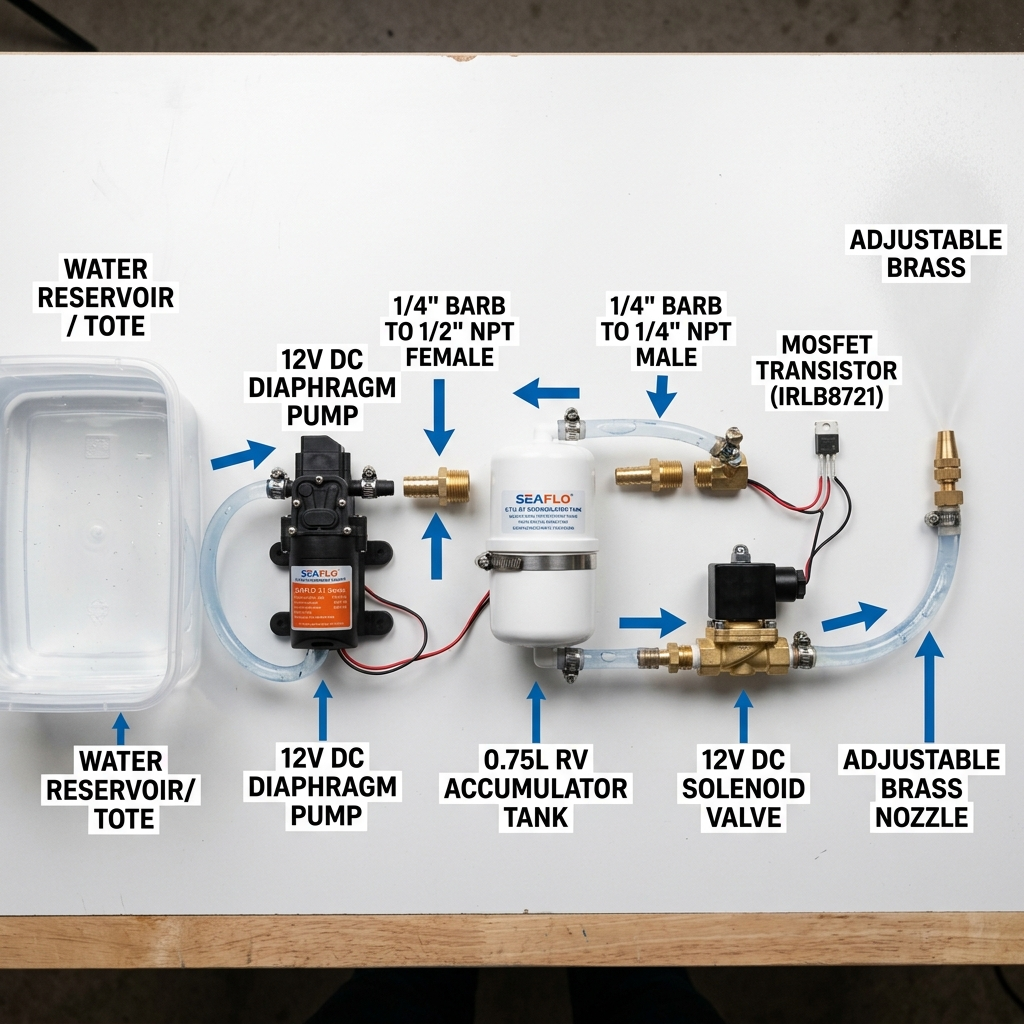
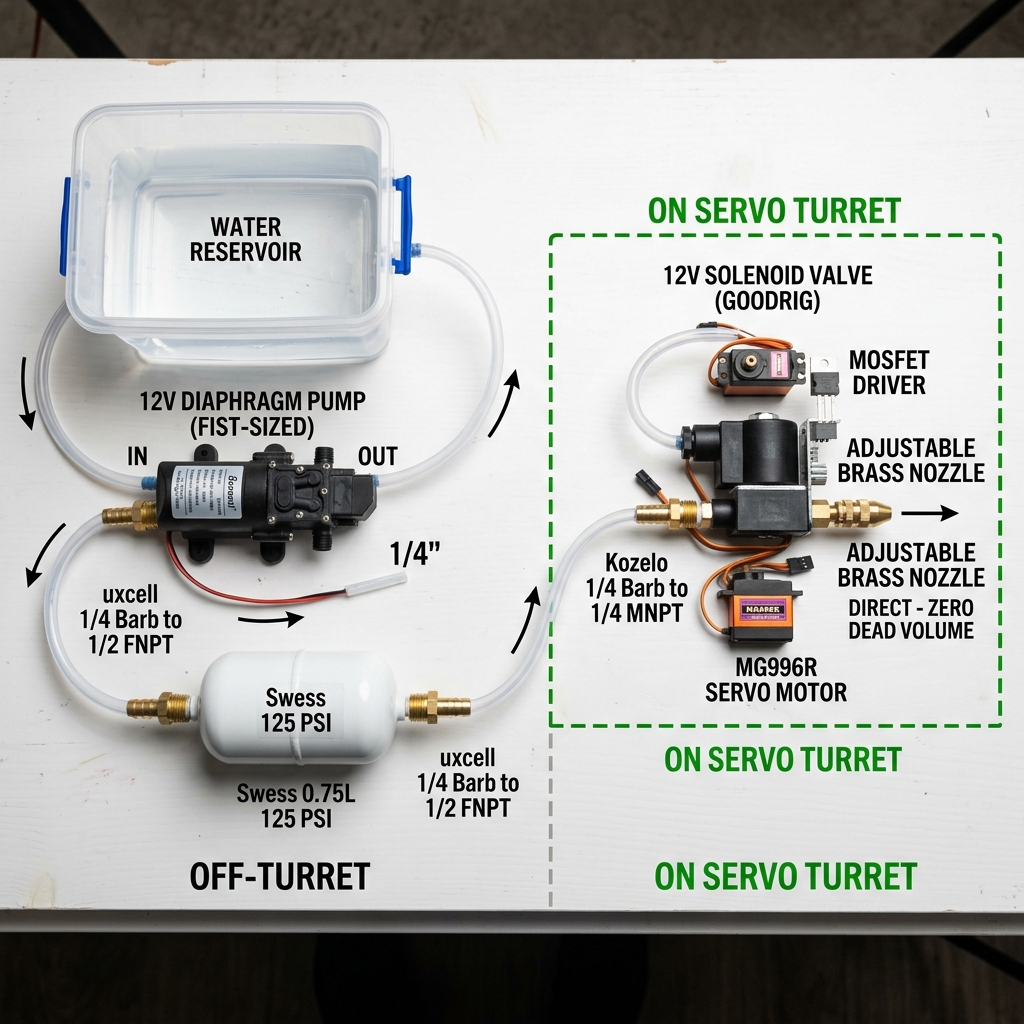
spec+diagrams: Solenoid on servo turret, direct to nozzle
DECISION: Mount GOODRIG solenoid DIRECTLY on MG996R servo turret
payload. Nozzle threads into Kozelo adapter on solenoid outlet
with ZERO tubing between them (zero dead volume).

Rationale: Any flex tubing after solenoid creates dead volume
that balloons under pressure, absorbing 10ms pulse energy.
Direct connection keeps 40 PSI at nozzle tip.

MG996R handles 275g payload easily (2.5% of 11 kg·cm stall torque).

Updated:
- HW-001 §8.3: Solenoid on turret, direct to nozzle
- HW-001 §8.4: NEW — turret weight budget table
- HW-001 §8.5: NEW — PTFE fallback if servos struggle
- 3x draw.io diagrams: servo turret (not gimbal), solenoid on payload
- 3x reference images: regenerated with servo turret layout
- HISTORY.md: Logged mounting decision + engineering rationale

diff --git a/docs/specs/HW-001-hardware-spec.md b/docs/specs/HW-001-hardware-spec.md
@@ -278,12 +278,36 @@ The chassis is a vertically condensed dome enclosure with the gimbal mounted INV
 
 ### 8.3 Fluid Routing
 
+> ⚠ **CRITICAL: Solenoid valve is mounted ON the servo turret payload**, directly connected to the nozzle
+> with ZERO tubing between them. Any flexible tubing after the solenoid creates "dead volume" that
+> absorbs the 10ms pulse energy, defeating the entire accumulator upgrade.
+
 1. **Inlet** — silicone tubing drops into reservoir → runs to pump inlet barb
 2. **Pump → Accumulator** — pump outlet → 1/4" flex line → uxcell 1/2" FNPT adapter → accumulator port 1
-3. **Accumulator → Solenoid** — accumulator port 2 → uxcell 1/2" FNPT adapter → 1/4" flex line → Kozelo 1/4" MNPT adapter → solenoid inlet
-4. **Solenoid → Nozzle** — solenoid outlet → Kozelo 1/4" MNPT adapter → 1/4" flex line → nozzle on gimbal
+3. **Accumulator → Turret** — accumulator port 2 → uxcell 1/2" FNPT adapter → 1/4" flex line → through PG9 cable gland → service loop → Kozelo 1/4" MNPT adapter → **solenoid inlet (ON TURRET)**
+4. **Solenoid → Nozzle (DIRECT)** — solenoid outlet → Kozelo 1/4" MNPT adapter → **nozzle threads DIRECTLY into adapter** (zero dead volume, zero drip, 40 PSI at nozzle tip)
 5. **Pump Power** — Relay CH1 supplies +12V for pump on/off (continuous run or software-managed duty cycle)
-6. **Solenoid Power** — IRLB8721 MOSFET (BCM 27) gates +12V to solenoid coil with microsecond precision
+6. **Solenoid Power** — IRLB8721 MOSFET (BCM 27) gates +12V to solenoid coil with microsecond precision. 12V/GND wires routed from enclosure to turret alongside silicone line.
+
+### 8.4 Turret Payload Weight Budget
+
+| Component | Weight |
+|:----------|:-------|
+| IMX219 Sniper Camera | ~30g |
+| GOODRIG Solenoid + brass fittings | ~200g |
+| Kozelo adapters ×2 | ~30g |
+| Nozzle | ~15g |
+| **Total** | **~275g** |
+
+MG996R stall torque = 11 kg·cm at 6V → payload is **2.5% of capacity**.
+Mount solenoid **near the pivot center** to minimize rotational inertia.
+
+### 8.5 Fallback (If Servos Struggle)
+
+If MG996R servos overheat or overshoot with the solenoid on-turret, replace the silicone tubing
+between accumulator and turret with **rigid PTFE (Teflon) or nylon tubing** and move the solenoid
+off-turret. Rigid tubing does not expand under pressure, preserving pulse integrity. However,
+rigid tubing restricts turret movement range — use solenoid-on-turret first.
 
 ## 9. Enclosure & Weatherproofing
 

diff --git a/docs/HISTORY.md b/docs/HISTORY.md
@@ -660,3 +660,11 @@ Three factors combine to make sub-10ms relay-gated diaphragm pump shots inherent
 - **[SPEC]** HW-001 §5.4: New MOSFET switching circuit schematic (IRLB8721 + 10kΩ pull-down + 1N4007 flyback).
 - **[SPEC]** HW-001 §8: Complete rewrite — accumulator + solenoid topology with full plumbing diagram and routing.
 - **[SPEC]** HW-001 §12.1: New BOM section for ECO-2026-004 parts with prices and thread specs.
+
+## 2026-06-12 — SOLENOID MOUNTED ON SERVO TURRET (ZERO DEAD VOLUME)
+
+- **[DECISION]** Solenoid valve MUST be mounted directly on servo turret payload, connected directly to nozzle with ZERO tubing between them. Rationale: Any flexible tubing after the solenoid creates "dead volume" — the tube balloons under pressure, absorbing the 10ms pulse energy and producing a dribble instead of a laser stream. Direct connection keeps 40 PSI right at the nozzle tip.
+- **[DECISION]** MG996R servos (11 kg·cm stall torque) can easily handle ~275g turret payload (camera + solenoid + adapters + nozzle = 2.5% of capacity). Mount solenoid near pivot center to minimize rotational inertia.
+- **[DECISION]** Fallback if servos struggle: replace silicone tubing (accumulator→turret) with rigid PTFE/Teflon tubing and move solenoid off-turret. Rigid tubing preserves pulse integrity but restricts turret movement.
+- **[SPEC]** HW-001 §8.3: Updated fluid routing — solenoid on turret, direct to nozzle. Added §8.4 weight budget, §8.5 fallback plan.
+- **[DIAGRAMS]** Updated all ECO-2026-004 diagrams (3 draw.io + 3 reference images) to show servo turret (not Storm32 gimbal) with solenoid + nozzle on payload plate.
